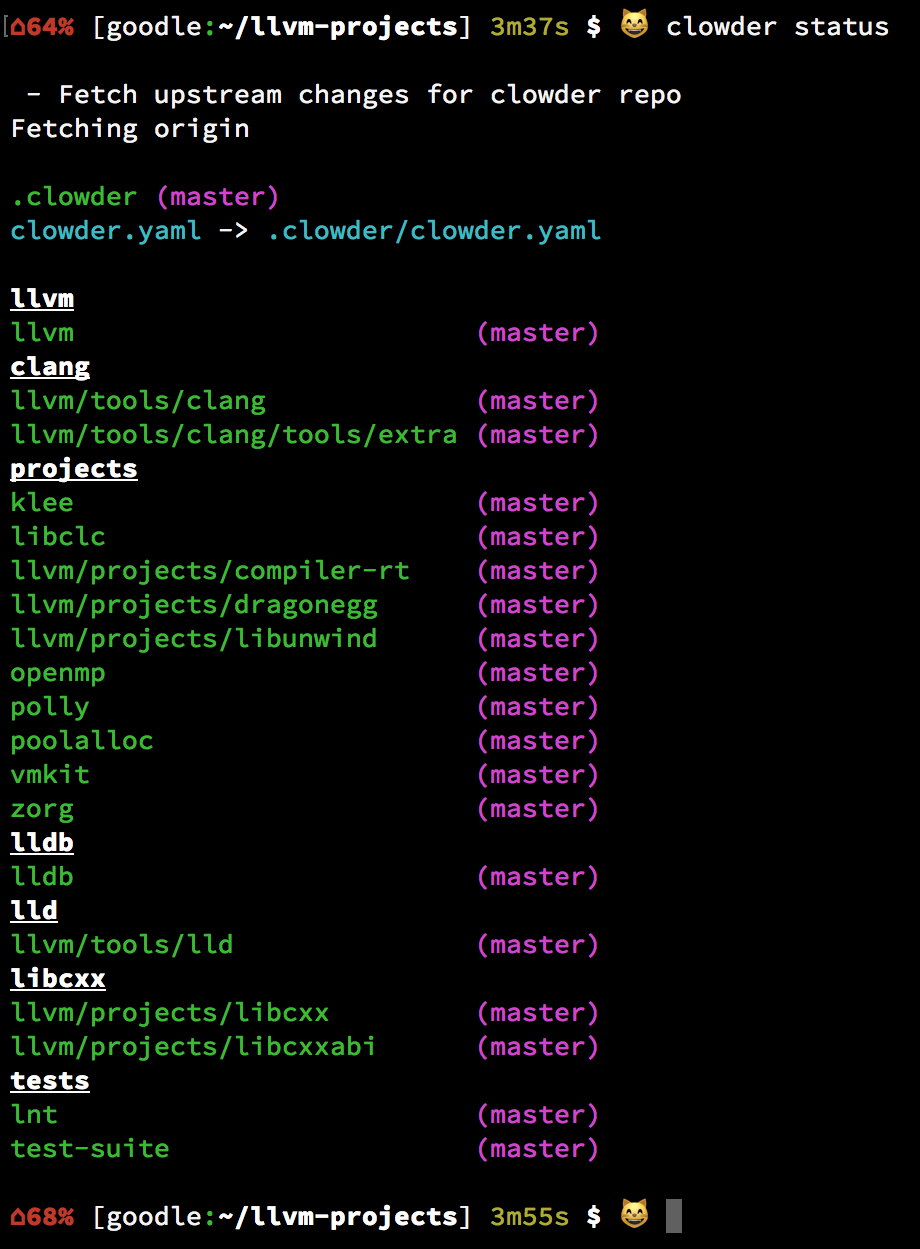
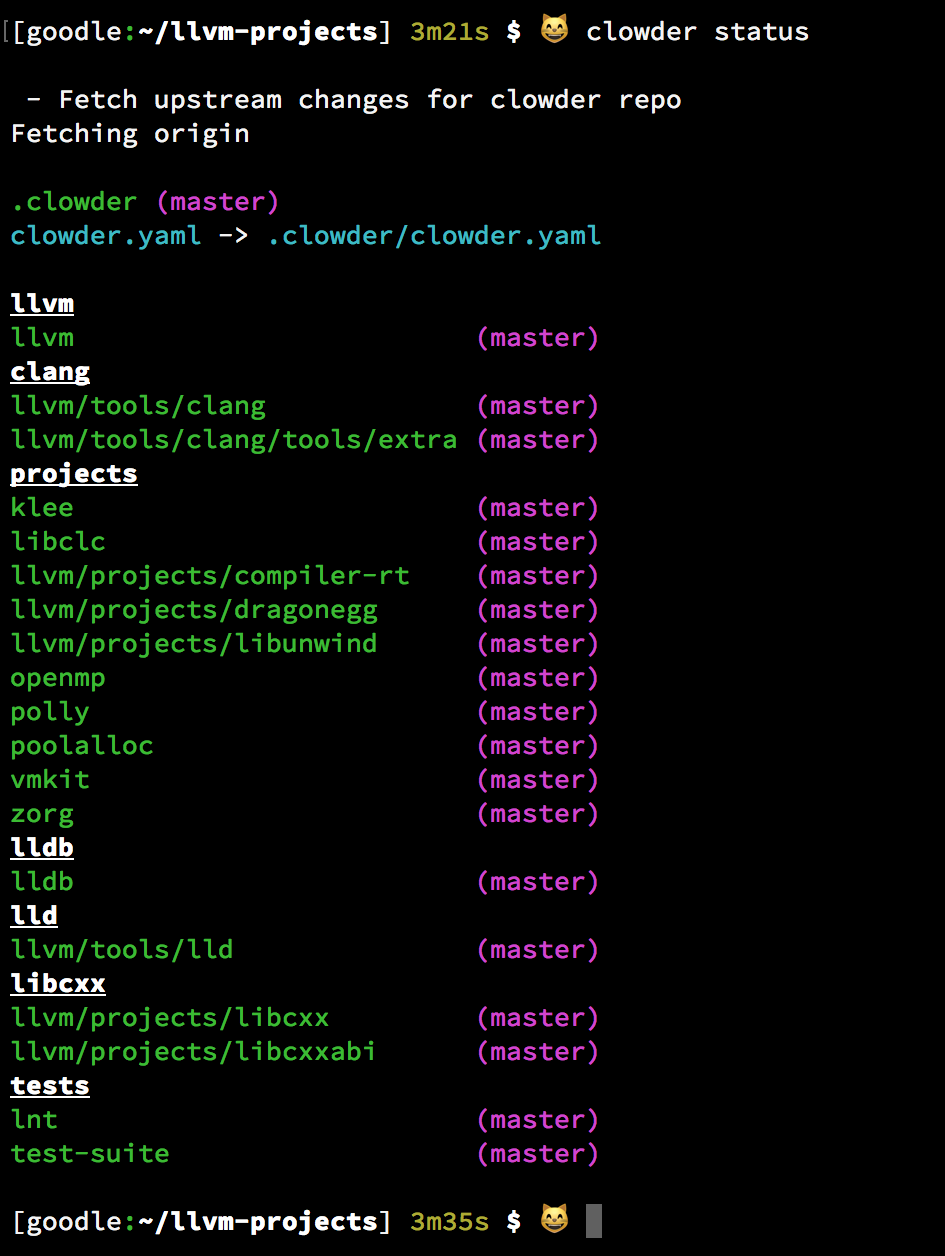
Update web site from latest in master branch

diff --git a/index.md b/index.md
@@ -96,7 +96,7 @@ The `clowder init` command does the following
 $ clowder herd
 ```
 
-<img alt="clowder herd" src="docs/README/clowder-herd.png" width="60%">
+![clowder herd](docs/README/clowder-herd.png)
 
 `clowder herd` updates the state of the projects. When the command is run, the following happens
 - If any projects don't have a clean git status then `clowder` exits
@@ -111,7 +111,7 @@ $ clowder herd
 $ clowder status
 ```
 
-<img alt="clowder status" src="docs/README/clowder-status.png" width="50%">
+<img alt="clowder status" src="docs/README/clowder-status.png" width="60%">
 
 # Further Information
 
